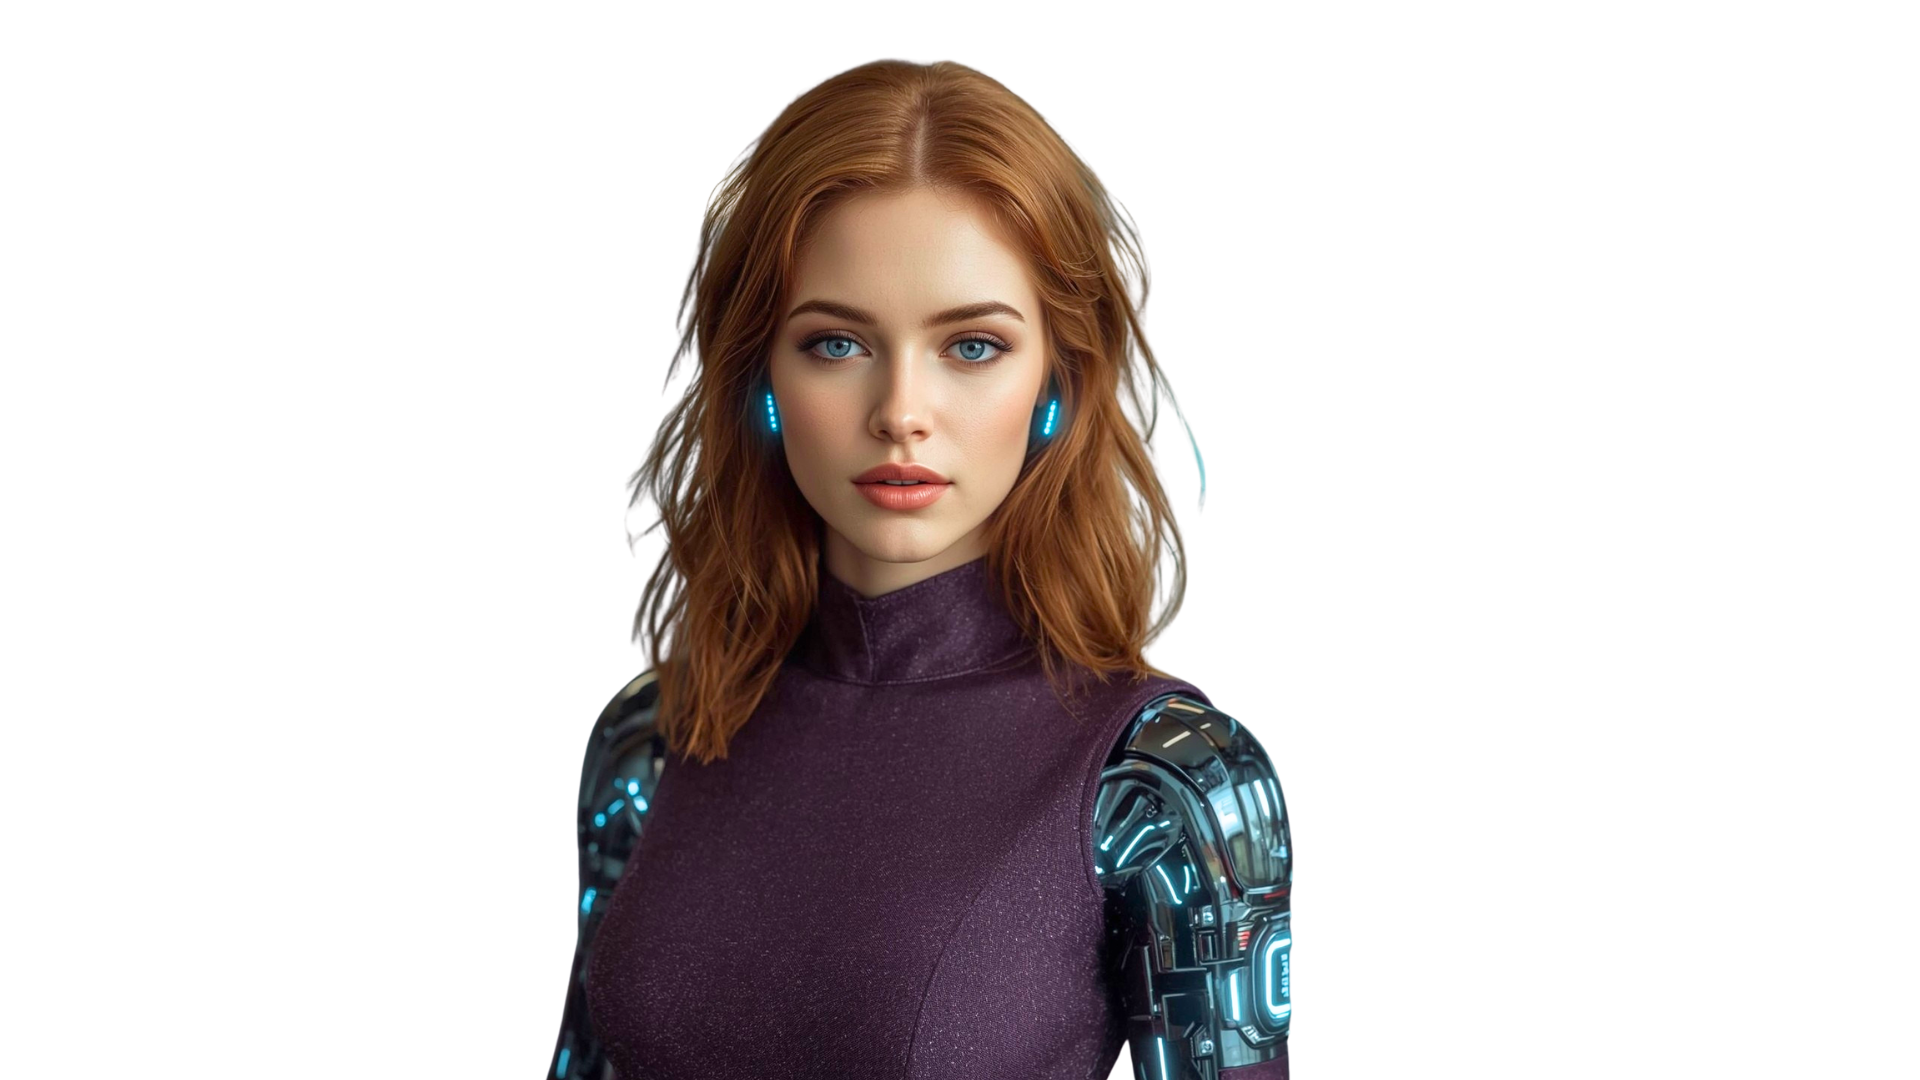
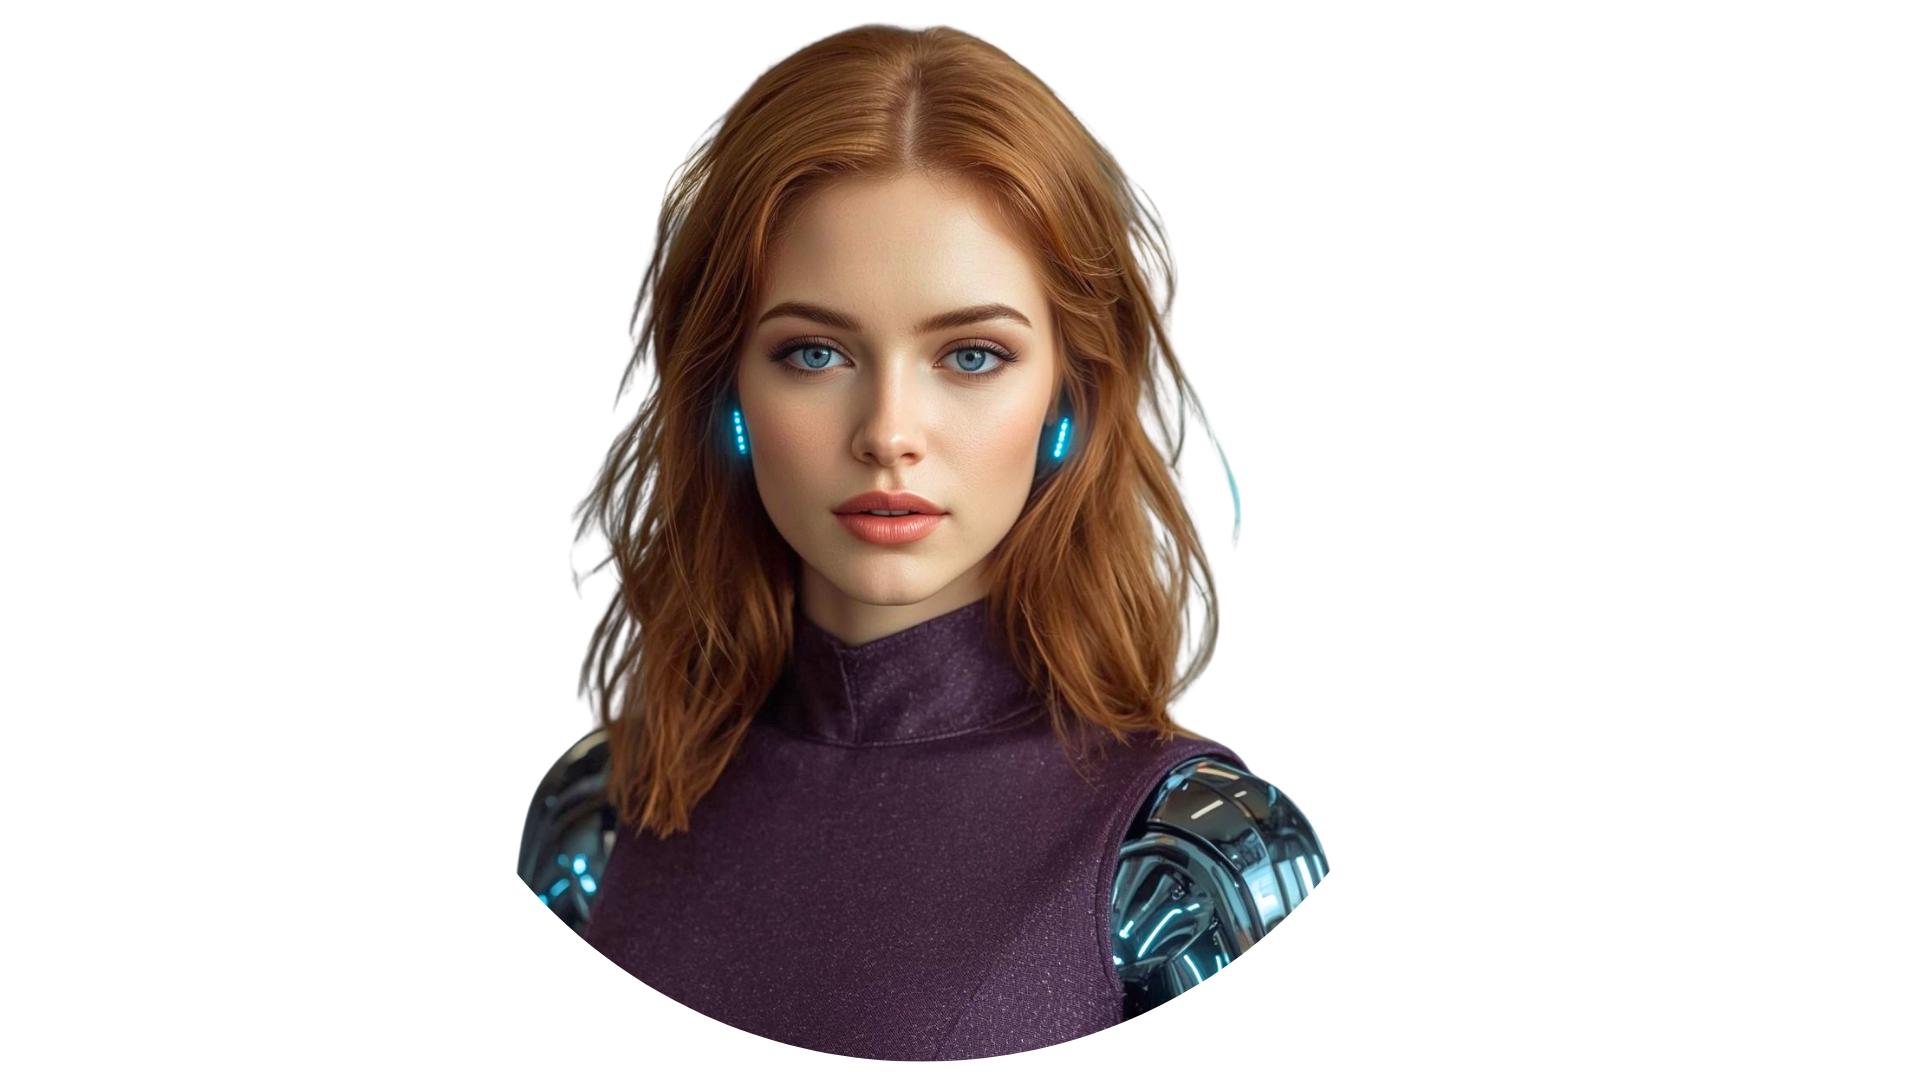
Changes

Changed region(s): [[0.25, 0.0, 0.6875, 1.0]]

diff --git a/src/components/helper/DonnaHelperPanel.tsx b/src/components/helper/DonnaHelperPanel.tsx
@@ -218,8 +218,8 @@ Me diz: no que posso te ajudar agora?`,
         </TabsList>
 
         {/* Chat Tab */}
-        <TabsContent value="chat" className="flex-1 flex flex-col m-0 p-0">
-          <ScrollArea className="flex-1 p-4">
+        <TabsContent value="chat" className="flex-1 flex flex-col m-0 p-0 min-h-0">
+          <div className="flex-1 overflow-y-auto p-4 scrollbar-thin scrollbar-thumb-zinc-300 dark:scrollbar-thumb-zinc-600 scrollbar-track-transparent">
             <div className="space-y-4">
               {messages.map((message) => (
                 <div
@@ -230,9 +230,11 @@ Me diz: no que posso te ajudar agora?`,
                   )}
                 >
                   {message.role !== "user" && (
-                    <div className="w-8 h-8 rounded-full bg-emerald-100 dark:bg-emerald-900/30 flex items-center justify-center flex-shrink-0">
-                      <Bot className="w-4 h-4 text-emerald-600 dark:text-emerald-400" />
-                    </div>
+                    <img
+                      src={donnaAvatar}
+                      alt="Donna"
+                      className="w-8 h-8 rounded-full object-cover flex-shrink-0"
+                    />
                   )}
                   <div
                     className={cn(
@@ -253,9 +255,11 @@ Me diz: no que posso te ajudar agora?`,
               ))}
               {isLoading && (
                 <div className="flex gap-2">
-                  <div className="w-8 h-8 rounded-full bg-emerald-100 dark:bg-emerald-900/30 flex items-center justify-center">
-                    <Bot className="w-4 h-4 text-emerald-600 dark:text-emerald-400" />
-                  </div>
+                  <img
+                    src={donnaAvatar}
+                    alt="Donna"
+                    className="w-8 h-8 rounded-full object-cover"
+                  />
                   <div className="bg-zinc-100 dark:bg-zinc-800 rounded-2xl rounded-tl-sm px-4 py-3">
                     <Loader2 className="w-4 h-4 animate-spin text-emerald-500" />
                   </div>
@@ -263,7 +267,7 @@ Me diz: no que posso te ajudar agora?`,
               )}
               <div ref={messagesEndRef} />
             </div>
-          </ScrollArea>
+          </div>
 
           {/* Input */}
           <div className="p-4 border-t border-zinc-200 dark:border-zinc-700">

diff --git a/src/components/helper/DonnaHelperButton.tsx b/src/components/helper/DonnaHelperButton.tsx
@@ -18,7 +18,7 @@ export function DonnaHelperButton() {
           "bg-gradient-to-br from-green-400 to-emerald-500",
           "hover:from-green-500 hover:to-emerald-600",
           "transition-all duration-300 hover:scale-105",
-          "flex items-center justify-center",
+          "flex items-center justify-center overflow-hidden",
           "ring-4 ring-green-300/30"
         )}
         whileHover={{ scale: 1.1 }}
@@ -43,7 +43,7 @@ export function DonnaHelperButton() {
               key="avatar"
               src={donnaAvatar}
               alt="Donna - Assistente Virtual"
-              className="w-12 h-12 rounded-full object-cover"
+              className="w-full h-full object-cover"
               initial={{ scale: 0.5, opacity: 0 }}
               animate={{ scale: 1, opacity: 1 }}
               exit={{ scale: 0.5, opacity: 0 }}
